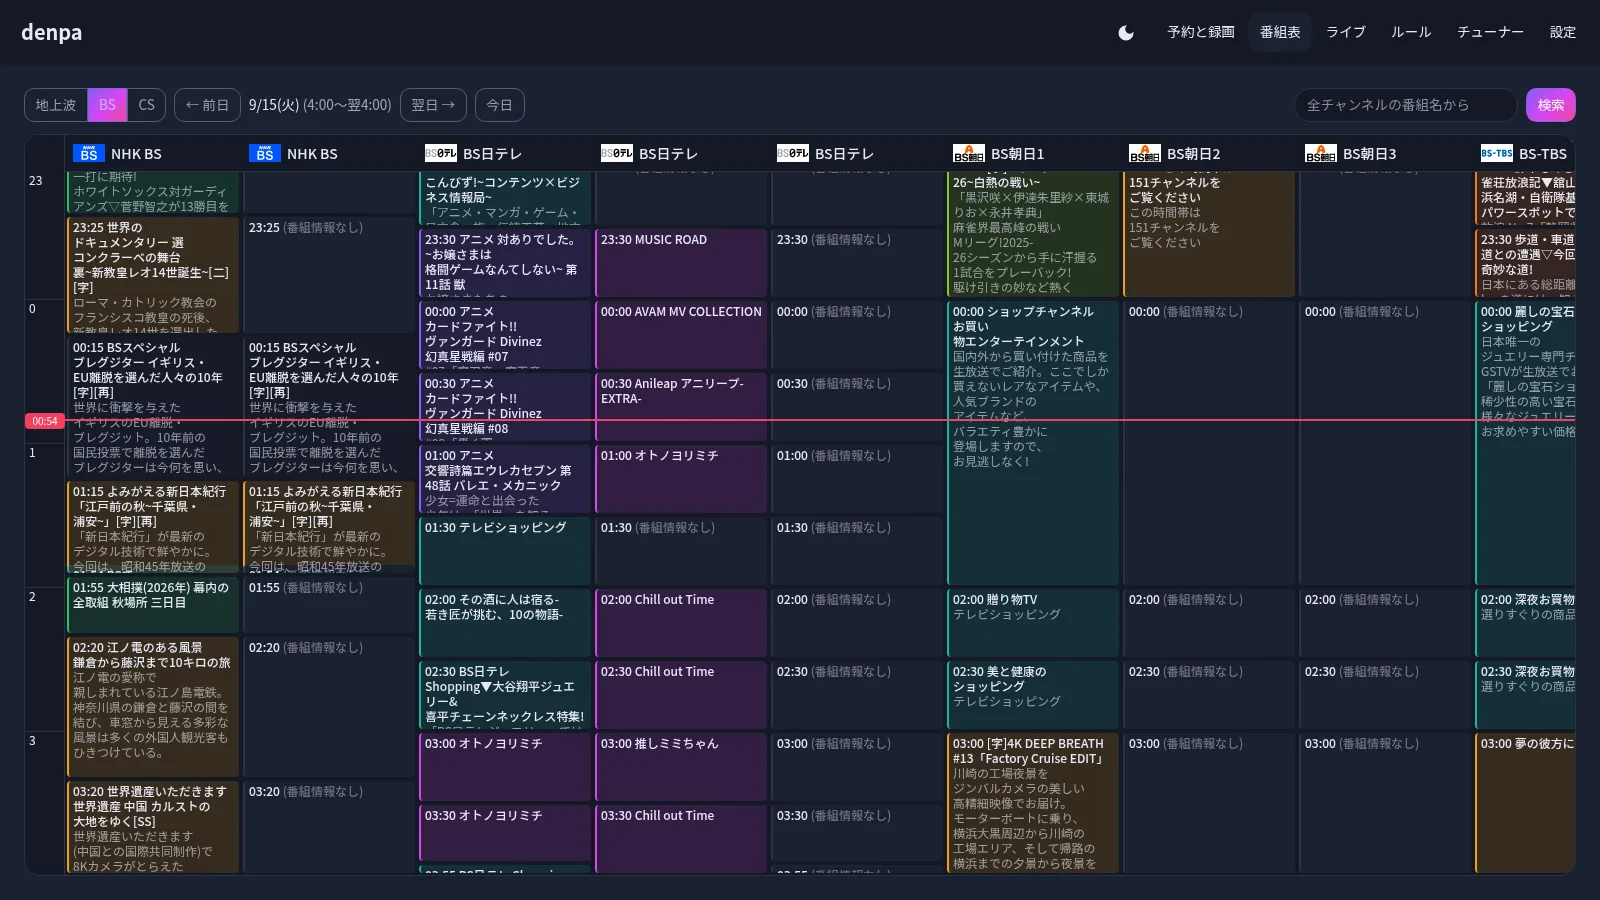
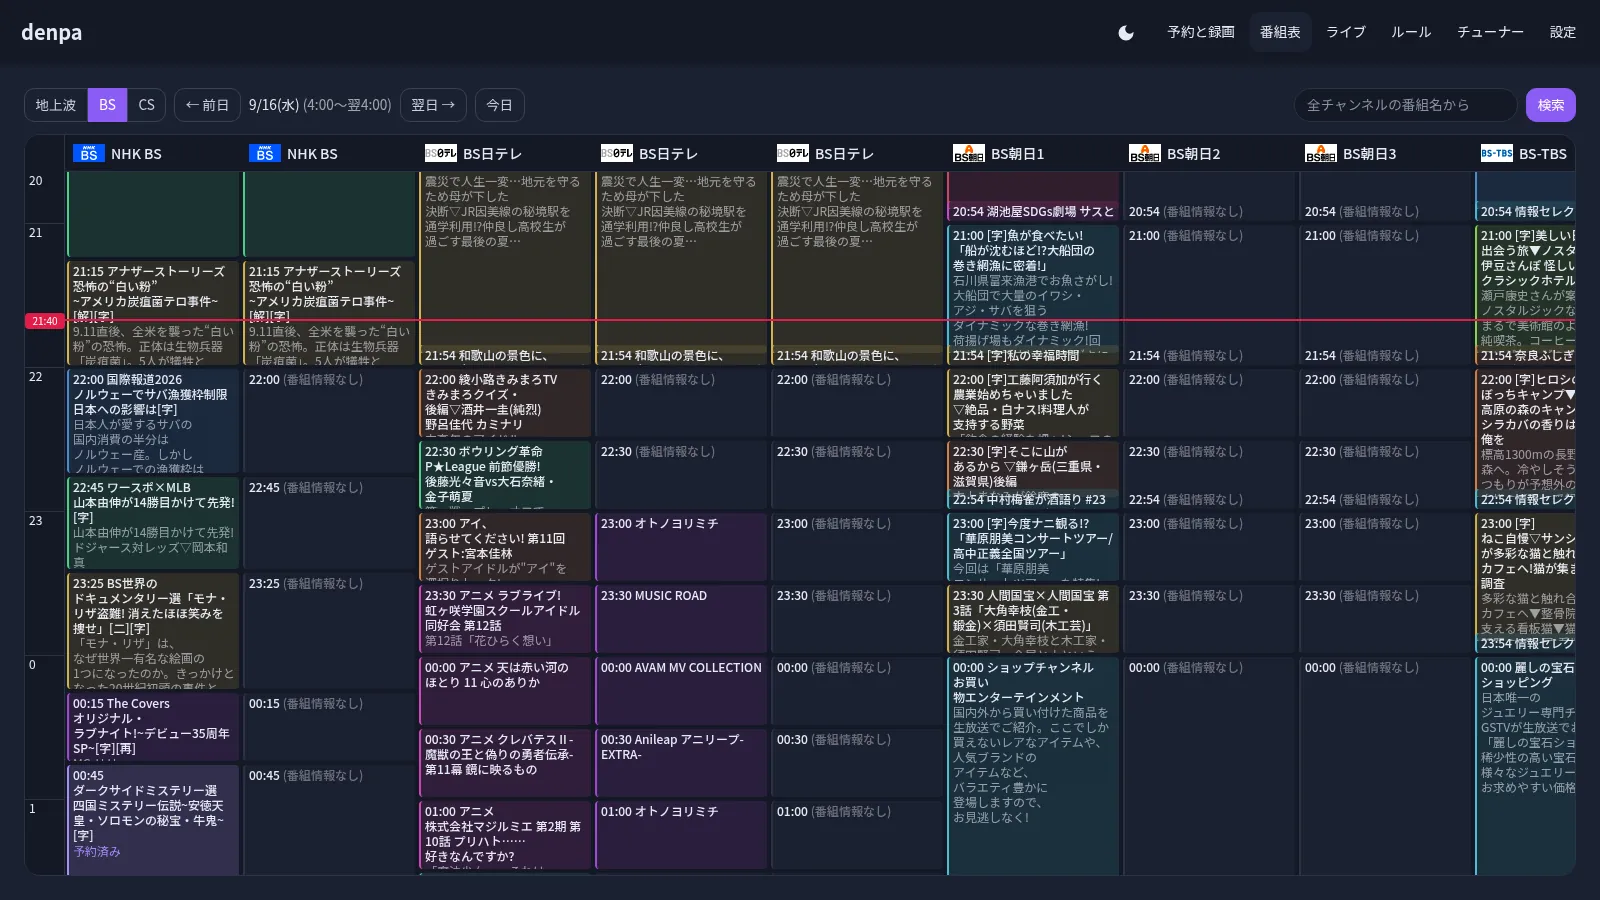
絵の撮り方をリポジトリに置き、絵を撮り直す (#133)
* docs: 絵の撮り方をリポジトリに置き、番組表まわりを撮り直す

**撮る条件が手元にしか無かった。** 大きさ (1600×900)・テーマ・地域・
動く絵の縮め方 (1120×630) が、撮った人の作業場にしか残っていなかったので、
次に撮る人が同じ絵を作れない。scripts/ に置いて頭に書いた。

録画が要る絵 (dashboard・watch・home-watch-anim・detail-anim) は、
いま本番に録画が1件も無いので撮れていない。録れ次第そろえる。

ついでに、効いていない宣言を1つ外した (`--pico-text-decoration` は
`a.button` が text-decoration を直に書いているので届かない)。

Claude-Session: https://claude.ai/code/session_01JgGYf5qbjDXYhtzcpLsGvv

* docs: 録画が要る絵も撮り直す

録画が1件だけの時点で撮ったもの。続けて録れたら差し替える。

Claude-Session: https://claude.ai/code/session_01JgGYf5qbjDXYhtzcpLsGvv

* docs: 録画がそろってから撮り直す

1件だけのときに撮ったものは、録画の欄がほとんど空で「何ができるのか」が
伝わらなかった。録画中・エンコード中・視聴可能が同時に並ぶところにした。

Claude-Session: https://claude.ai/code/session_01JgGYf5qbjDXYhtzcpLsGvv

---------

diff --git a/scripts/capture-docs.ts b/scripts/capture-docs.ts
@@ -1,0 +1,218 @@
+/**
+ * README と docs の絵を**動いている denpa から撮る**。閲覧だけで、予約も削除も保存もしない。
+ *
+ *     ssh -N -L 3399:<denpa の ClusterIP>:3000 <ホスト>   # 手元から見えるところに繋ぐ
+ *     bun scripts/capture-docs.ts                          # 全部撮る
+ *     bun scripts/capture-docs.ts guide-bs live            # 名前を挙げると、そのぶんだけ
+ *     python3 scripts/docs-webp.py                         # 動く絵を組み立てて docs/images へ
+ *
+ * **撮る条件はここに書いてある**(散らばると撮り直しのたびに絵の大きさが揃わない):
+ * 1600×900 (20インチの画面と同じ 16:9)・暗いテーマ・ja-JP・Asia/Tokyo。
+ * 動く絵も同じ広さで動かし、貼るときに 1120×630 まで縮める (組み立ての側)。
+ *
+ * 宛先は `BASE` (既定 http://localhost:3399)、置き場は `OUT` (既定 docs/images の隣の作業場)。
+ * 本番は LAN (TRUSTED_NETWORKS) から来た人だけ素通しなので、x-forwarded-for に LAN の住所を付ける
+ * (`XFF` で変えられる)。自分の値が入る欄と映像はぼかす (BLUR)。
+ */
+import { mkdirSync, writeFileSync } from 'node:fs';
+import { join } from 'node:path';
+import { type Browser, chromium, type Page } from '@playwright/test';
+
+const BASE = process.env.BASE ?? 'http://localhost:3399';
+const OUT = process.env.OUT ?? 'docs/images/.capture';
+const XFF = process.env.XFF ?? '10.10.0.99';
+mkdirSync(OUT, { recursive: true });
+
+// 自分の値の入る欄と、映像はぼかす
+const BLUR = `
+[data-testid="webhook-list"] .url, [data-testid="webhook-url"],
+[data-testid="vlc-name"], [data-testid="vlc-ip"], [data-testid="postal-code"],
+[data-testid="vlc-card"] .rows input { filter: blur(6px) !important; }
+video, .media-stack canvas, [data-testid="live-video"], [data-testid="watch-video"] { filter: blur(16px) !important; }
+`;
+
+async function open(browser: Browser, width: number, height: number, scale: number): Promise<Page> {
+    const ctx = await browser.newContext({
+        viewport: { width, height },
+        deviceScaleFactor: scale,
+        locale: 'ja-JP',
+        timezoneId: 'Asia/Tokyo',
+        colorScheme: 'dark',
+        extraHTTPHeaders: { 'x-forwarded-for': XFF },
+    });
+    const page = await ctx.newPage();
+    await page.addInitScript((css) => {
+        localStorage.setItem('theme', 'dark');
+        document.addEventListener('DOMContentLoaded', () => {
+            const s = document.createElement('style');
+            s.textContent = css;
+            document.head.append(s);
+        });
+    }, BLUR);
+    return page;
+}
+
+async function still(page: Page, name: string) {
+    await page.waitForTimeout(1500);
+    await page.screenshot({ path: join(OUT, `${name}.png`) });
+    console.log('still', name);
+}
+
+/** 動かしながら撮る。fn の間ずっとコマを貯め、アニメ WebP にする */
+async function anim(page: Page, name: string, fn: () => Promise<void>) {
+    const frames: { buf: Buffer; t: number }[] = [];
+    let running = true;
+    const loop = (async () => {
+        while (running) {
+            frames.push({ buf: await page.screenshot({ type: 'png' }), t: Date.now() });
+            await page.waitForTimeout(90);
+        }
+    })();
+    await fn();
+    running = false;
+    await loop;
+    // コマの間隔を実時間で。最後のコマは少し長く見せる。組み立ては Python (Pillow) で
+    const dir = join(OUT, `${name}.frames`);
+    mkdirSync(dir, { recursive: true });
+    frames.forEach((f, i) => {
+        writeFileSync(join(dir, `${String(i).padStart(4, '0')}.png`), f.buf);
+    });
+    const delays = frames.map((f, i) => (i + 1 < frames.length ? frames[i + 1]!.t - f.t : 1500));
+    writeFileSync(join(dir, 'delays.json'), JSON.stringify(delays));
+    console.log('anim', name, frames.length, 'frames');
+}
+
+async function slowScroll(page: Page, selector: string | null, steps = 40) {
+    const total = await page.evaluate((sel) => {
+        const el = sel ? document.querySelector(sel) : document.scrollingElement;
+        return el ? el.scrollHeight - el.clientHeight : 0;
+    }, selector);
+    for (let i = 1; i <= steps; i++) {
+        await page.evaluate(
+            ([sel, y]) => {
+                const el = sel ? document.querySelector(sel as string) : document.scrollingElement;
+                el?.scrollTo({ top: y as number });
+            },
+            [selector, (total * i) / steps] as const,
+        );
+        await page.waitForTimeout(120);
+    }
+    await page.waitForTimeout(800);
+}
+
+const browser = await chromium.launch({ args: ['--autoplay-policy=no-user-gesture-required'] });
+const only = process.argv.slice(2);
+const want = (n: string) => only.length === 0 || only.includes(n);
+
+// 静止画 (1600×900。20インチの画面と同じ 16:9)
+{
+    const page = await open(browser, 1600, 900, 1);
+    if (want('dashboard')) {
+        await page.goto(`${BASE}/`);
+        await still(page, 'dashboard');
+    }
+    if (want('guide-bs')) {
+        await page.goto(`${BASE}/guide?type=BS`);
+        await still(page, 'guide-bs');
+    }
+    if (want('watch')) {
+        await page.goto(`${BASE}/`);
+        const row = page.getByTestId('recording-row').first();
+        const id = await row.getAttribute('data-recording-id');
+        await page.goto(`${BASE}/watch/${id}`);
+        await page.waitForTimeout(3000);
+        await still(page, 'watch');
+    }
+    if (want('live')) {
+        await page.goto(`${BASE}/live`);
+        await page.waitForTimeout(8000);
+        await still(page, 'live');
+    }
+    if (want('rules')) {
+        await page.goto(`${BASE}/rules`);
+        await still(page, 'rules');
+    }
+    await page.context().close();
+}
+
+// 動く絵 (静止画と同じ 1600×900 で動かす。貼るときの大きさは組み立てで縮める)
+{
+    const page = await open(browser, 1600, 900, 1);
+    if (want('home-watch-anim')) {
+        await page.goto(`${BASE}/`);
+        await page.waitForTimeout(1500);
+        await anim(page, 'home-watch-anim', async () => {
+            await page.waitForTimeout(1200);
+            const row = page.getByTestId('recording-row').first();
+            await row.hover();
+            await page.waitForTimeout(900);
+            await row
+                .locator('.row-name, [data-testid="recording-title"]')
+                .first()
+                .click({ timeout: 5000 })
+                .catch(() => row.click());
+            await page.waitForTimeout(6500);
+        });
+    }
+    if (want('detail-anim')) {
+        await page.goto(`${BASE}/`);
+        await page.waitForTimeout(1500);
+        await anim(page, 'detail-anim', async () => {
+            await page.waitForTimeout(1000);
+            await page.getByTestId('recording-row').first().getByRole('button', { name: '詳細' }).click();
+            await page.waitForTimeout(2500);
+            const more = page.getByTestId('program-detail').getByRole('button', { name: /その他/ });
+            if (await more.count()) {
+                await more.click();
+                await page.waitForTimeout(2500);
+                await page.keyboard.press('Escape');
+                await page.waitForTimeout(800);
+            }
+            await page.getByTestId('detail-close').click();
+            await page.waitForTimeout(1000);
+        });
+    }
+    if (want('guide-anim')) {
+        await page.goto(`${BASE}/guide?type=GR`);
+        await page.waitForTimeout(2000);
+        await anim(page, 'guide-anim', async () => {
+            await page.waitForTimeout(1000);
+            await page
+                .getByTestId('guide-grid')
+                .evaluate((el) => el.scrollBy({ top: 240, behavior: 'smooth' }));
+            await page.waitForTimeout(1500);
+            await page
+                .getByTestId('guide-grid')
+                .evaluate((el) => el.scrollBy({ left: 300, behavior: 'smooth' }));
+            await page.waitForTimeout(1500);
+            await page.getByTestId('program-button').nth(6).click();
+            await page.waitForTimeout(3000);
+            await page.getByTestId('detail-close').click();
+            await page.waitForTimeout(1200);
+        });
+    }
+    if (want('live-anim')) {
+        await page.goto(`${BASE}/live`);
+        await anim(page, 'live-anim', async () => {
+            await page.waitForTimeout(9000);
+        });
+    }
+    if (want('tuners-anim')) {
+        await page.goto(`${BASE}/tuners`);
+        await page.waitForTimeout(2000);
+        await anim(page, 'tuners-anim', async () => {
+            await page.waitForTimeout(1000);
+            await slowScroll(page, null, 60);
+        });
+    }
+    if (want('settings-anim')) {
+        await page.goto(`${BASE}/settings`);
+        await page.waitForTimeout(2000);
+        await anim(page, 'settings-anim', async () => {
+            await page.waitForTimeout(1000);
+            await slowScroll(page, null, 50);
+        });
+    }
+    await page.context().close();
+}
+await browser.close();

diff --git a/src/app.scss b/src/app.scss
@@ -414,7 +414,6 @@ a.button.secondary.outline:hover {
  */
 a.button[aria-current]:not([aria-current="false"]) {
 	--pico-color: var(--pico-primary-inverse);
-	--pico-text-decoration: none;
 }
 a.button.secondary[aria-current]:not([aria-current="false"]) {
 	--pico-color: var(--pico-secondary-inverse);

diff --git a/scripts/docs-webp.py b/scripts/docs-webp.py
@@ -1,0 +1,53 @@
+"""
+撮った絵を docs/images へ置く。**止まっている絵はそのままの大きさ (1600×900) で、
+動く絵は 1120×630 に縮めて** WebP にする。動く絵は、同じ絵が続くところを 1 枚に
+まとめてその間だけ長く見せる (押した瞬間だけ変わる画面は、ほとんどのコマが同じ)。
+
+    python3 scripts/docs-webp.py              # 撮ってあるぶん全部
+    python3 scripts/docs-webp.py guide-anim   # 名前を挙げると、そのぶんだけ
+
+元は scripts/capture-docs.ts が docs/images/.capture に置く。Pillow が要る。
+"""
+import json, os, sys
+from pathlib import Path
+from PIL import Image, ImageChops
+
+SRC = Path(os.environ.get("OUT", "docs/images/.capture"))
+DST = Path("docs/images")
+
+want = sys.argv[1:]
+
+# 止まっている絵。縮めない (README では小さく貼るが、押すと原寸で見られる)
+for f in sorted(SRC.glob("*.png")):
+    name = f.stem
+    if want and name not in want:
+        continue
+    out = DST / f"{name}.webp"
+    Image.open(f).convert("RGB").save(out, quality=80, method=6)
+    print(name, "still", round(out.stat().st_size / 1024), "KB")
+
+for d in sorted(SRC.glob("*.frames")):
+    name = d.name[:-len(".frames")]
+    if want and name not in want:
+        continue
+    delays = json.loads((d / "delays.json").read_text())
+    files = sorted(p for p in d.glob("*.png"))
+    frames, times = [], []
+    for f, ms in zip(files, delays):
+        im = Image.open(f).convert("RGB")
+        # 撮るのは広い画面 (1600×900)、貼るのは 1120×630 まで縮めて軽くする
+        if im.width > 1120:
+            im = im.resize((1120, round(im.height * 1120 / im.width)), Image.LANCZOS)
+        if frames and ImageChops.difference(frames[-1], im).getbbox() is None:
+            times[-1] += ms          # 同じ絵 → 前のコマを長く
+        else:
+            frames.append(im)
+            times.append(ms)
+    # コマが多いと重くなる。40 コマを超えたら 1 つ飛ばしにして、その分だけ長く見せる
+    while len(frames) > 40:
+        frames = frames[::2]
+        times = [times[i] + (times[i + 1] if i + 1 < len(times) else 0) for i in range(0, len(times), 2)]
+    out = DST / f"{name}.webp"
+    frames[0].save(out, save_all=True, append_images=frames[1:], duration=times,
+                   loop=0, quality=62, method=4)
+    print(name, len(files), "->", len(frames), "frames", round(out.stat().st_size / 1024), "KB")

diff --git a/docs/development.md b/docs/development.md
@@ -15,6 +15,23 @@ docker compose run --rm unit bun run check  # 型 (svelte-check)
 依存を足したら `docker compose run --rm unit bun install` を一度回してください
 (`node_modules` は名前付きボリュームなので、イメージの焼き直しは要りません)。
 
+## README の絵
+
+`docs/images/` の絵は **動いている denpa から撮ります**(偽エージェントではなく、
+番組表も録画も入っているもの)。撮る条件 — 1600×900・暗いテーマ・ja-JP・Asia/Tokyo、
+動く絵も同じ広さで動かして貼るときに 1120×630 へ縮める — は
+`scripts/capture-docs.ts` の頭に書いてあります。
+
+```sh
+ssh -N -L 3399:<denpa の ClusterIP>:3000 <ホスト>   # 見えるところに繋ぐ
+bun scripts/capture-docs.ts                          # 全部 (名前を挙げるとそのぶんだけ)
+python3 scripts/docs-webp.py                         # 動く絵を組み立てて docs/images へ
+```
+
+**閲覧だけです。** 予約も削除も保存もしません。自分の値が入る欄 (通知先・VLC・郵便番号) と
+映像はぼかします。見た目を変えたら撮り直してください — 古い絵が残っていると、
+README を見て入れた人が最初に「話が違う」と気づくところになります。
+
 ## テストの方針
 
 **E2E が主で、単体テストは純粋関数の境界条件だけ。** 偽エージェント・偽の通知先・
